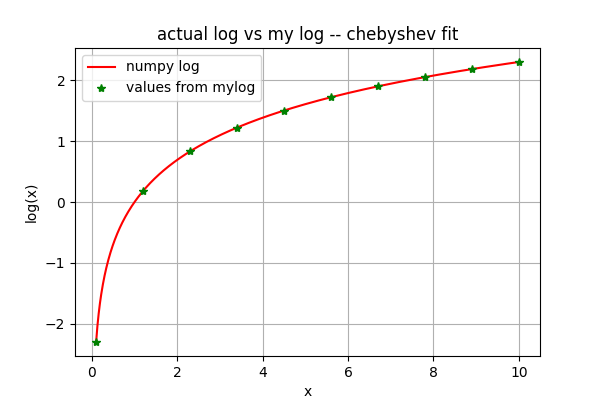
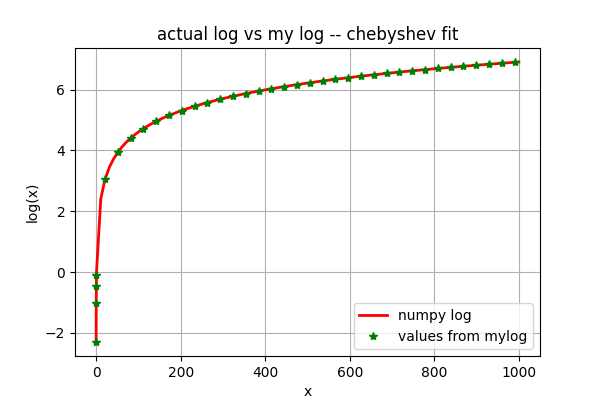
q3 updates

diff --git a/ps2/q3/q3.py b/ps2/q3/q3.py
@@ -74,20 +74,22 @@ if __name__ == '__main__':
     # first let's create a callable mylog object from our CustomLog class
     # by default we use 10th order Chebyshev over 100 points to estimate log2(x)
     # and by default we create a function for emulating natural log(x)
-    x_test = np.linspace(0.1,10,10)
+    x_test = np.linspace(0.1,0.9,10)
+    x_test = np.append(x_test, np.linspace(1,1000,100))
     y_test = np.log(x_test)
 
 
-    mylog = CustomLog(order=10)
+    mylog = CustomLog(order=50)
     y_pred = mylog(x_test)
-    err = np.sqrt(np.mean((y_test-y_pred)**2))
-    print(f"Error obtained for custom log function by using all orders of Chebyshevs is {err:4.2e}")
+    err_cheb = y_test-y_pred
+    rmserr = np.sqrt(np.mean((err_cheb)**2))
+    print(f"Error obtained for custom log function by using all orders of Chebyshevs is {rmserr:4.2e}")
     
     fig, ax = plt.subplots(1,1)
     fig.set_size_inches(6,4)
     ax.set_title('actual log vs my log -- chebyshev fit')
-    ax.plot(np.linspace(0.1,10,1000),np.log(np.linspace(0.1,10,1000)), 'r-', label='numpy log')
-    ax.plot(x_test, y_pred,'g*', label='values from mylog')
+    ax.plot(x_test,y_test, 'r-', label='numpy log', lw=2)
+    ax.plot(x_test[::3], y_pred[::3],'g*', label='values from mylog')
     leg = ax.legend()
     ax.set_xlabel('x')
     ax.set_ylabel('log(x)')
@@ -105,10 +107,27 @@ if __name__ == '__main__':
 
 
     # now let us repeat this exercise with legendre polynomials instead of Chebyshevs
-    mylog = CustomLog(fit="leg", order=10)
+    mylog = CustomLog(fit="leg", order=50)
     y_pred = mylog(x_test)
-    err = np.sqrt(np.mean((y_test-y_pred)**2))
-    print(f"\n\nError obtained for custom log function by using all orders of Legendre is {err:4.2e}")
+    err_leg = y_test-y_pred
+    rmserr = np.sqrt(np.mean((err_leg)**2))
+
+    print(f"\n\nError obtained for custom log function by using all orders of Legendre is {rmserr:4.2e}")
+    print(f"\nmax errors are: Chebyshev -> {np.max(err_cheb):4.2e}, legendre -> {np.max(err_leg): 4.2e}")
+
+    fig, ax = plt.subplots(1,1)
+    fig.set_size_inches(6,4)
+    ax.set_title('error comparison -- chebyshev vs legendre')
+    ax.plot(x_test, np.abs(err_leg),'r-', label='error from legendre fit')
+    ax.plot(x_test, np.abs(err_cheb),'g-*', label='error from chebyshev fit')
+    leg = ax.legend()
+    ax.set_xlabel('x')
+    ax.set_ylabel('ytrue - ypred')
+    ax.grid(True)
+    ax.set_ylim([0,0.9e-13])
+    ax.text(60,0.61e-13, "legendre through the roof")
+    fig.savefig('./ps2_q3_error_comparison.png')
+
 
     # Even though we've fit some high order, we don't really need to use all of them
     # we can stay below our specified error tolerance by using first few orders
